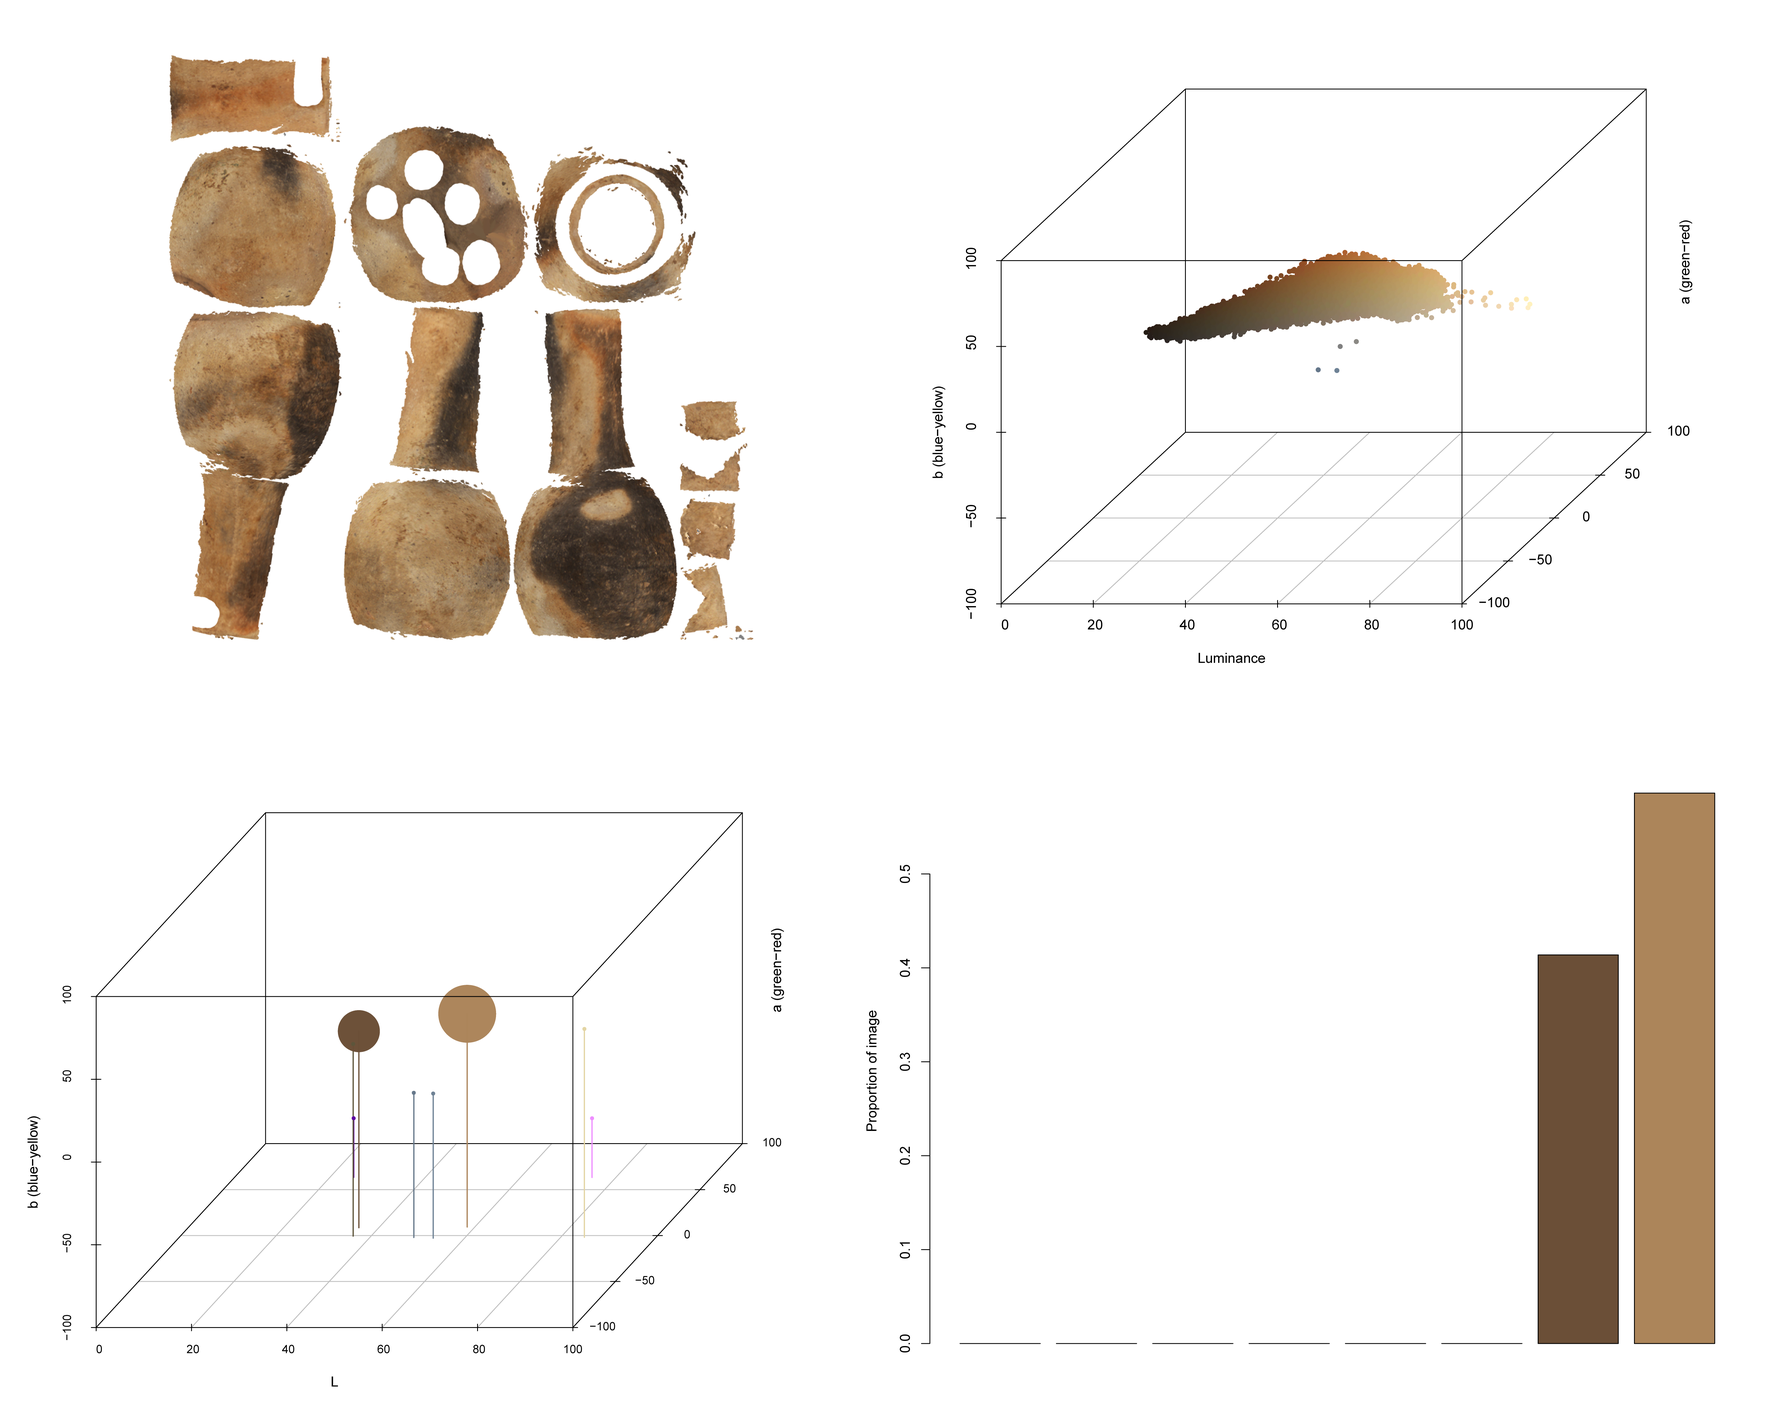
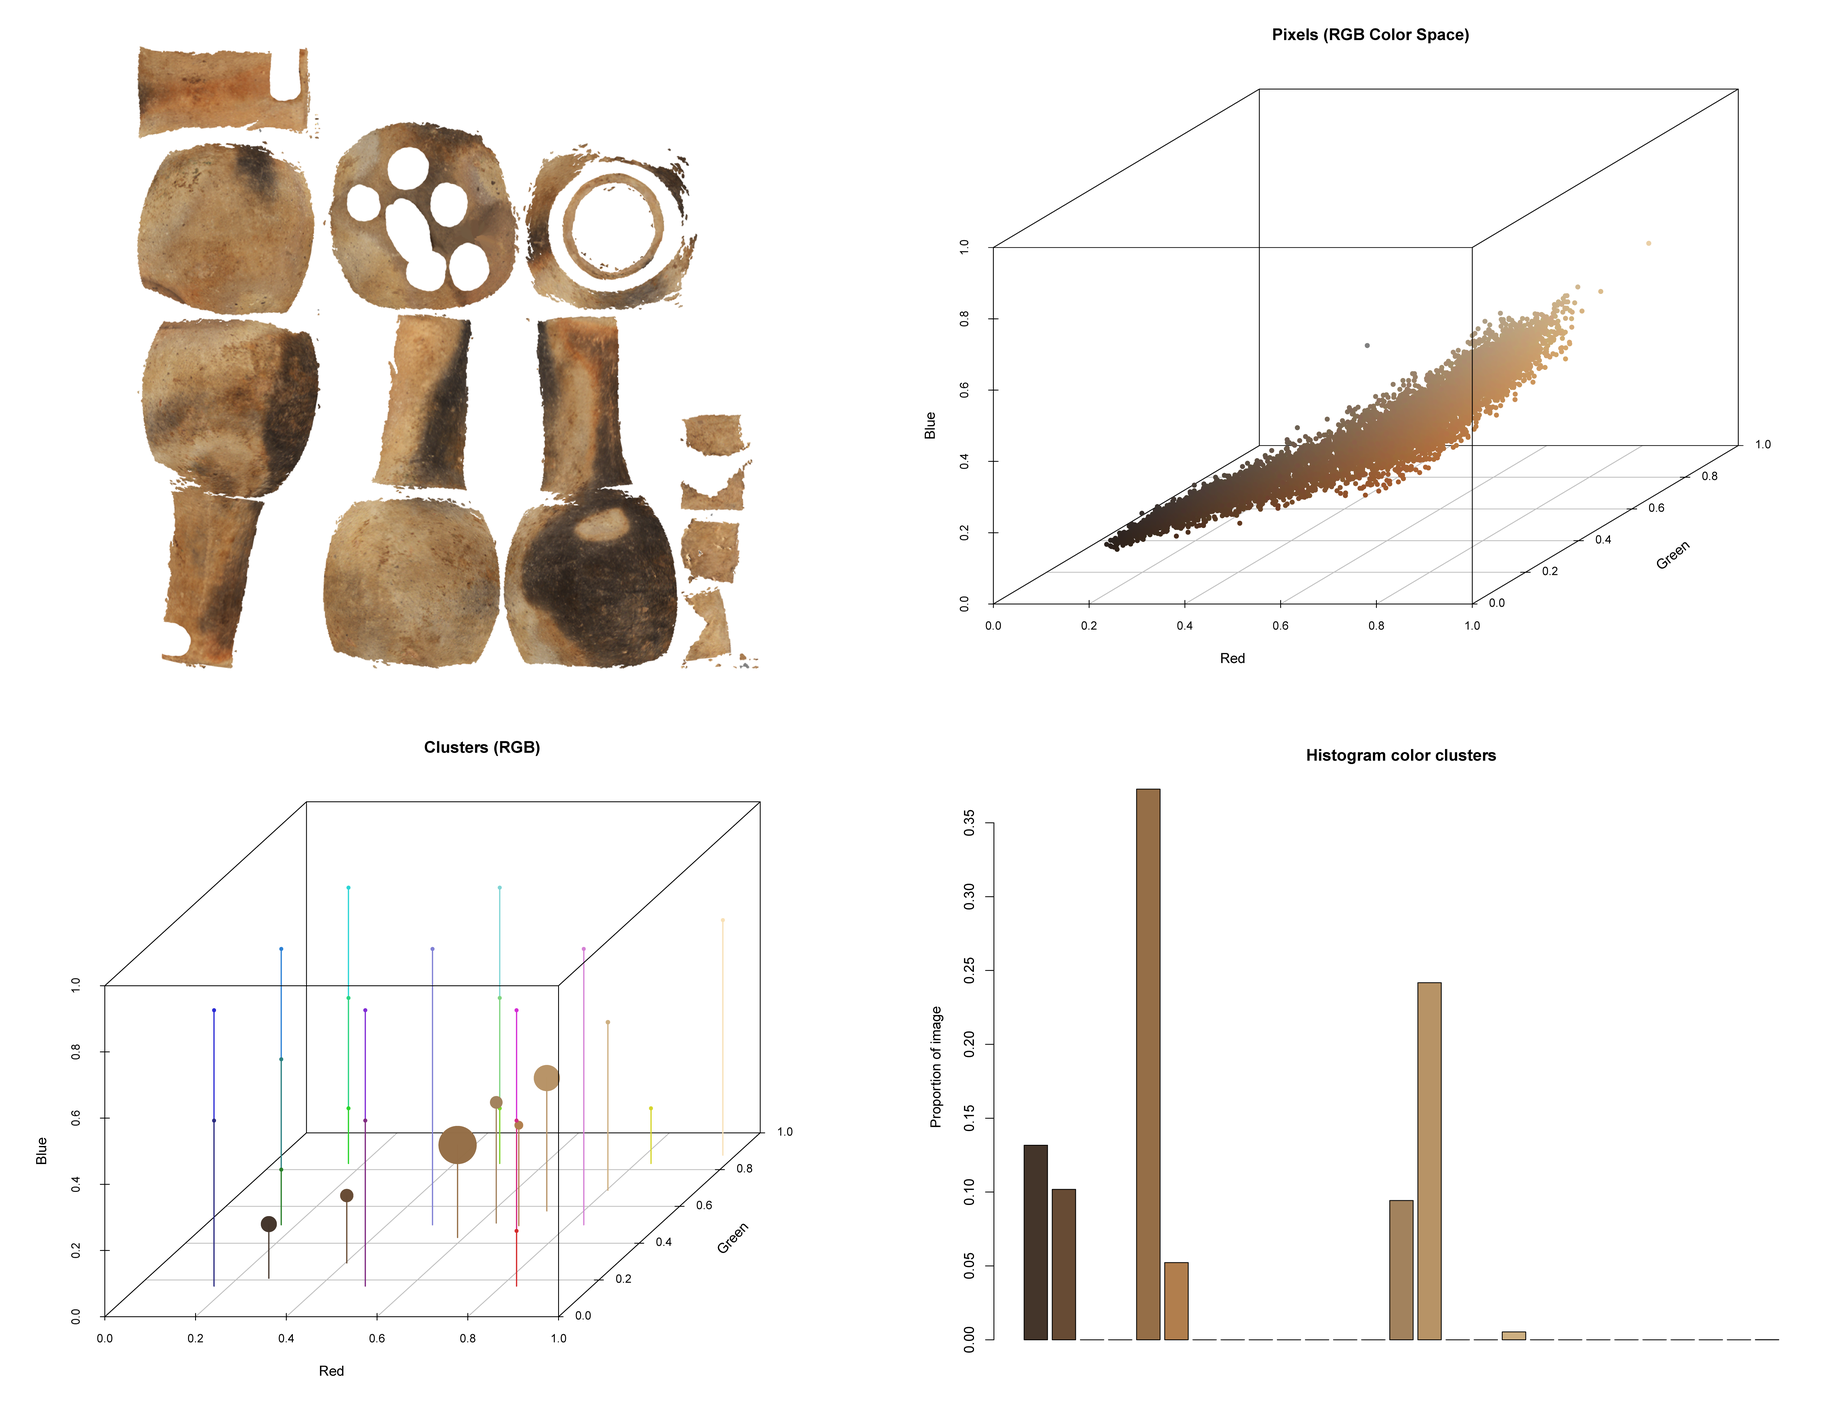
<edit index>

diff --git a/docs/index.html b/docs/index.html
@@ -7,7 +7,7 @@
 <meta name="viewport" content="width=device-width, initial-scale=1.0, user-scalable=yes">
 
 <meta name="author" content="Robert Z. Selden, Jr.">
-<meta name="dcterms.date" content="2023-02-12">
+<meta name="dcterms.date" content="2023-02-13">
 <meta name="description" content="Supplementary Materials">
 
 <title>Did intended firing method condition the morphology of Formative/Early Caddo bottles?</title>
@@ -254,7 +254,7 @@ div.csl-indent {
     <div>
     <div class="quarto-title-meta-heading">Published</div>
     <div class="quarto-title-meta-contents">
-      <p class="date">February 12, 2023</p>
+      <p class="date">February 13, 2023</p>
     </div>
   </div>
   
@@ -296,8 +296,8 @@ div.csl-indent {
 <div class="cell-output-display">
 <div class="quarto-figure quarto-figure-center">
 <figure class="figure">
-<p><img src="./img/fig2.png" class="img-fluid figure-img" width="3208"></p>
-<p></p><figcaption class="figure-caption">Color binning process for a single object; adapted from Weller and Westneat (2019:Figure 2). In a, image of a Smithport Plain bottle with a transparent background; b, 3D scatterplot of 10,000 non-background pixels in RGB color space; c, clusters from the histogram in b displayed in RGB color space; and d, histogram showing the proportion of non-background pixels assigned to each of eight bins.</figcaption><p></p>
+<p><img src="./img/fig2.png" class="img-fluid figure-img" width="3287"></p>
+<p></p><figcaption class="figure-caption">Color binning process for a single object; adapted from Weller and Westneat (2019:Figure 2). In a, image of a Smithport Plain bottle with a transparent background; b, 3D scatterplot of 10,000 non-background pixels in RGB color space; c, clusters from histogram displayed in RGB color space; and d, histogram showing the proportion of non-background pixels assigned to each of eight bins.</figcaption><p></p>
 </figure>
 </div>
 </div>
@@ -361,7 +361,7 @@ div.csl-indent {
 </section>
 <section id="colophon" class="level1 unnumbered">
 <h1 class="unnumbered">Colophon</h1>
-<p>This version of the analysis was generated on 2023-02-12 08:35:02 using the following computational environment and dependencies:</p>
+<p>This version of the analysis was generated on 2023-02-13 03:37:41 using the following computational environment and dependencies:</p>
 <div class="cell">
 <div class="sourceCode cell-code" id="cb6"><pre class="sourceCode r code-with-copy"><code class="sourceCode r"><span id="cb6-1"><a href="#cb6-1" aria-hidden="true" tabindex="-1"></a><span class="co"># what R packages and versions were used?</span></span>
 <span id="cb6-2"><a href="#cb6-2" aria-hidden="true" tabindex="-1"></a><span class="cf">if</span> (<span class="st">"devtools"</span> <span class="sc">%in%</span> <span class="fu">installed.packages</span>()) devtools<span class="sc">::</span><span class="fu">session_info</span>()</span></code><button title="Copy to Clipboard" class="code-copy-button"><i class="bi"></i></button></pre></div>
@@ -369,67 +369,67 @@ div.csl-indent {
 <pre><code>─ Session info ───────────────────────────────────────────────────────────────
  setting  value
  version  R version 4.2.2 (2022-10-31 ucrt)
- os       Windows 10 x64 (build 22621)
+ os       Windows 10 x64 (build 19045)
  system   x86_64, mingw32
  ui       RTerm
  language (EN)
  collate  English_United States.utf8
  ctype    English_United States.utf8
  tz       America/Chicago
- date     2023-02-12
+ date     2023-02-13
  pandoc   2.19.2 @ C:/Program Files/RStudio/resources/app/bin/quarto/bin/tools/ (via rmarkdown)
 
 ─ Packages ───────────────────────────────────────────────────────────────────
  package     * version date (UTC) lib source
- cachem        1.0.6   2021-08-19 [1] CRAN (R 4.2.1)
+ cachem        1.0.6   2021-08-19 [1] CRAN (R 4.2.2)
  callr         3.7.3   2022-11-02 [1] CRAN (R 4.2.2)
  cli           3.6.0   2023-01-09 [1] CRAN (R 4.2.2)
- crayon        1.5.2   2022-09-29 [1] CRAN (R 4.2.1)
- devtools      2.4.5   2022-10-11 [1] CRAN (R 4.2.1)
+ crayon        1.5.2   2022-09-29 [1] CRAN (R 4.2.2)
+ devtools      2.4.5   2022-10-11 [1] CRAN (R 4.2.2)
  digest        0.6.31  2022-12-11 [1] CRAN (R 4.2.2)
- ellipsis      0.3.2   2021-04-29 [1] CRAN (R 4.2.1)
+ ellipsis      0.3.2   2021-04-29 [1] CRAN (R 4.2.2)
  evaluate      0.20    2023-01-17 [1] CRAN (R 4.2.2)
- fastmap       1.1.0   2021-01-25 [1] CRAN (R 4.2.1)
+ fastmap       1.1.0   2021-01-25 [1] CRAN (R 4.2.2)
  fs            1.6.1   2023-02-06 [1] CRAN (R 4.2.2)
- glue          1.6.2   2022-02-24 [1] CRAN (R 4.2.1)
+ glue          1.6.2   2022-02-24 [1] CRAN (R 4.2.2)
  htmltools     0.5.4   2022-12-07 [1] CRAN (R 4.2.2)
  htmlwidgets   1.6.1   2023-01-07 [1] CRAN (R 4.2.2)
  httpuv        1.6.8   2023-01-12 [1] CRAN (R 4.2.2)
  jsonlite      1.8.4   2022-12-06 [1] CRAN (R 4.2.2)
  knitr         1.42    2023-01-25 [1] CRAN (R 4.2.2)
- later         1.3.0   2021-08-18 [1] CRAN (R 4.2.1)
- lifecycle     1.0.3   2022-10-07 [1] CRAN (R 4.2.1)
- magrittr      2.0.3   2022-03-30 [1] CRAN (R 4.2.1)
- memoise       2.0.1   2021-11-26 [1] CRAN (R 4.2.1)
+ later         1.3.0   2021-08-18 [1] CRAN (R 4.2.2)
+ lifecycle     1.0.3   2022-10-07 [1] CRAN (R 4.2.2)
+ magrittr      2.0.3   2022-03-30 [1] CRAN (R 4.2.2)
+ memoise       2.0.1   2021-11-26 [1] CRAN (R 4.2.2)
  mime          0.12    2021-09-28 [1] CRAN (R 4.2.0)
- miniUI        0.1.1.1 2018-05-18 [1] CRAN (R 4.2.1)
+ miniUI        0.1.1.1 2018-05-18 [1] CRAN (R 4.2.2)
  pkgbuild      1.4.0   2022-11-27 [1] CRAN (R 4.2.2)
  pkgload       1.3.2   2022-11-16 [1] CRAN (R 4.2.2)
  png           0.1-8   2022-11-29 [1] CRAN (R 4.2.2)
- prettyunits   1.1.1   2020-01-24 [1] CRAN (R 4.2.1)
+ prettyunits   1.1.1   2020-01-24 [1] CRAN (R 4.2.2)
  processx      3.8.0   2022-10-26 [1] CRAN (R 4.2.2)
- profvis       0.3.7   2020-11-02 [1] CRAN (R 4.2.1)
- promises      1.2.0.1 2021-02-11 [1] CRAN (R 4.2.1)
+ profvis       0.3.7   2020-11-02 [1] CRAN (R 4.2.2)
+ promises      1.2.0.1 2021-02-11 [1] CRAN (R 4.2.2)
  ps            1.7.2   2022-10-26 [1] CRAN (R 4.2.2)
  purrr         1.0.1   2023-01-10 [1] CRAN (R 4.2.2)
- R6            2.5.1   2021-08-19 [1] CRAN (R 4.2.1)
+ R6            2.5.1   2021-08-19 [1] CRAN (R 4.2.2)
  Rcpp          1.0.10  2023-01-22 [1] CRAN (R 4.2.2)
- remotes       2.4.2   2021-11-30 [1] CRAN (R 4.2.1)
- rlang         1.0.6   2022-09-24 [1] CRAN (R 4.2.1)
+ remotes       2.4.2   2021-11-30 [1] CRAN (R 4.2.2)
+ rlang         1.0.6   2022-09-24 [1] CRAN (R 4.2.2)
  rmarkdown     2.20    2023-01-19 [1] CRAN (R 4.2.2)
- rstudioapi    0.14    2022-08-22 [1] CRAN (R 4.2.1)
- sessioninfo   1.2.2   2021-12-06 [1] CRAN (R 4.2.1)
+ rstudioapi    0.14    2022-08-22 [1] CRAN (R 4.2.2)
+ sessioninfo   1.2.2   2021-12-06 [1] CRAN (R 4.2.2)
  shiny         1.7.4   2022-12-15 [1] CRAN (R 4.2.2)
  stringi       1.7.12  2023-01-11 [1] CRAN (R 4.2.2)
  stringr       1.5.0   2022-12-02 [1] CRAN (R 4.2.2)
- urlchecker    1.0.1   2021-11-30 [1] CRAN (R 4.2.1)
- usethis       2.1.6   2022-05-25 [1] CRAN (R 4.2.1)
+ urlchecker    1.0.1   2021-11-30 [1] CRAN (R 4.2.2)
+ usethis       2.1.6   2022-05-25 [1] CRAN (R 4.2.2)
  vctrs         0.5.2   2023-01-23 [1] CRAN (R 4.2.2)
  xfun          0.37    2023-01-31 [1] CRAN (R 4.2.2)
- xtable        1.8-4   2019-04-21 [1] CRAN (R 4.2.1)
+ xtable        1.8-4   2019-04-21 [1] CRAN (R 4.2.2)
  yaml          2.3.7   2023-01-23 [1] CRAN (R 4.2.2)
 
- [1] C:/Users/selde/AppData/Local/R/win-library/4.2
+ [1] C:/Users/seldenjrz/AppData/Local/R/win-library/4.2
  [2] C:/Program Files/R/R-4.2.2/library
 
 ──────────────────────────────────────────────────────────────────────────────</code></pre>
@@ -440,9 +440,9 @@ div.csl-indent {
 <div class="sourceCode cell-code" id="cb8"><pre class="sourceCode r code-with-copy"><code class="sourceCode r"><span id="cb8-1"><a href="#cb8-1" aria-hidden="true" tabindex="-1"></a><span class="co"># where can I find this commit? </span></span>
 <span id="cb8-2"><a href="#cb8-2" aria-hidden="true" tabindex="-1"></a><span class="cf">if</span> (<span class="st">"git2r"</span> <span class="sc">%in%</span> <span class="fu">installed.packages</span>() <span class="sc">&amp;</span> git2r<span class="sc">::</span><span class="fu">in_repository</span>(<span class="at">path =</span> <span class="st">"."</span>)) git2r<span class="sc">::</span><span class="fu">repository</span>(here<span class="sc">::</span><span class="fu">here</span>())  </span></code><button title="Copy to Clipboard" class="code-copy-button"><i class="bi"></i></button></pre></div>
 <div class="cell-output cell-output-stdout">
-<pre><code>Local:    main C:/Users/selde/Desktop/github/hfesp.1
+<pre><code>Local:    main D:/github/hfesp.1
 Remote:   main @ origin (https://github.com/seldenlab/hfesp.1)
-Head:     [715a00c] 2023-02-12: &lt;edit index&gt;</code></pre>
+Head:     [f38cf51] 2023-02-12: &lt;edit index&gt;</code></pre>
 </div>
 </div>
 

diff --git a/supp/_site/index.html b/supp/_site/index.html
@@ -7,7 +7,7 @@
 <meta name="viewport" content="width=device-width, initial-scale=1.0, user-scalable=yes">
 
 <meta name="author" content="Robert Z. Selden, Jr.">
-<meta name="dcterms.date" content="2023-02-12">
+<meta name="dcterms.date" content="2023-02-13">
 <meta name="description" content="Supplementary Materials">
 
 <title>Did intended firing method condition the morphology of Formative/Early Caddo bottles?</title>
@@ -254,7 +254,7 @@ div.csl-indent {
     <div>
     <div class="quarto-title-meta-heading">Published</div>
     <div class="quarto-title-meta-contents">
-      <p class="date">February 12, 2023</p>
+      <p class="date">February 13, 2023</p>
     </div>
   </div>
   
@@ -296,8 +296,8 @@ div.csl-indent {
 <div class="cell-output-display">
 <div class="quarto-figure quarto-figure-center">
 <figure class="figure">
-<p><img src="./img/fig2.png" class="img-fluid figure-img" width="3208"></p>
-<p></p><figcaption class="figure-caption">Color binning process for a single object; adapted from Weller and Westneat (2019:Figure 2). In a, image of a Smithport Plain bottle with a transparent background; b, 3D scatterplot of 10,000 non-background pixels in RGB color space; c, clusters from the histogram in b displayed in RGB color space; and d, histogram showing the proportion of non-background pixels assigned to each of eight bins.</figcaption><p></p>
+<p><img src="./img/fig2.png" class="img-fluid figure-img" width="3287"></p>
+<p></p><figcaption class="figure-caption">Color binning process for a single object; adapted from Weller and Westneat (2019:Figure 2). In a, image of a Smithport Plain bottle with a transparent background; b, 3D scatterplot of 10,000 non-background pixels in RGB color space; c, clusters from histogram displayed in RGB color space; and d, histogram showing the proportion of non-background pixels assigned to each of eight bins.</figcaption><p></p>
 </figure>
 </div>
 </div>
@@ -361,7 +361,7 @@ div.csl-indent {
 </section>
 <section id="colophon" class="level1 unnumbered">
 <h1 class="unnumbered">Colophon</h1>
-<p>This version of the analysis was generated on 2023-02-12 08:35:02 using the following computational environment and dependencies:</p>
+<p>This version of the analysis was generated on 2023-02-13 03:37:41 using the following computational environment and dependencies:</p>
 <div class="cell">
 <div class="sourceCode cell-code" id="cb6"><pre class="sourceCode r code-with-copy"><code class="sourceCode r"><span id="cb6-1"><a href="#cb6-1" aria-hidden="true" tabindex="-1"></a><span class="co"># what R packages and versions were used?</span></span>
 <span id="cb6-2"><a href="#cb6-2" aria-hidden="true" tabindex="-1"></a><span class="cf">if</span> (<span class="st">"devtools"</span> <span class="sc">%in%</span> <span class="fu">installed.packages</span>()) devtools<span class="sc">::</span><span class="fu">session_info</span>()</span></code><button title="Copy to Clipboard" class="code-copy-button"><i class="bi"></i></button></pre></div>
@@ -369,67 +369,67 @@ div.csl-indent {
 <pre><code>─ Session info ───────────────────────────────────────────────────────────────
  setting  value
  version  R version 4.2.2 (2022-10-31 ucrt)
- os       Windows 10 x64 (build 22621)
+ os       Windows 10 x64 (build 19045)
  system   x86_64, mingw32
  ui       RTerm
  language (EN)
  collate  English_United States.utf8
  ctype    English_United States.utf8
  tz       America/Chicago
- date     2023-02-12
+ date     2023-02-13
  pandoc   2.19.2 @ C:/Program Files/RStudio/resources/app/bin/quarto/bin/tools/ (via rmarkdown)
 
 ─ Packages ───────────────────────────────────────────────────────────────────
  package     * version date (UTC) lib source
- cachem        1.0.6   2021-08-19 [1] CRAN (R 4.2.1)
+ cachem        1.0.6   2021-08-19 [1] CRAN (R 4.2.2)
  callr         3.7.3   2022-11-02 [1] CRAN (R 4.2.2)
  cli           3.6.0   2023-01-09 [1] CRAN (R 4.2.2)
- crayon        1.5.2   2022-09-29 [1] CRAN (R 4.2.1)
- devtools      2.4.5   2022-10-11 [1] CRAN (R 4.2.1)
+ crayon        1.5.2   2022-09-29 [1] CRAN (R 4.2.2)
+ devtools      2.4.5   2022-10-11 [1] CRAN (R 4.2.2)
  digest        0.6.31  2022-12-11 [1] CRAN (R 4.2.2)
- ellipsis      0.3.2   2021-04-29 [1] CRAN (R 4.2.1)
+ ellipsis      0.3.2   2021-04-29 [1] CRAN (R 4.2.2)
  evaluate      0.20    2023-01-17 [1] CRAN (R 4.2.2)
- fastmap       1.1.0   2021-01-25 [1] CRAN (R 4.2.1)
+ fastmap       1.1.0   2021-01-25 [1] CRAN (R 4.2.2)
  fs            1.6.1   2023-02-06 [1] CRAN (R 4.2.2)
- glue          1.6.2   2022-02-24 [1] CRAN (R 4.2.1)
+ glue          1.6.2   2022-02-24 [1] CRAN (R 4.2.2)
  htmltools     0.5.4   2022-12-07 [1] CRAN (R 4.2.2)
  htmlwidgets   1.6.1   2023-01-07 [1] CRAN (R 4.2.2)
  httpuv        1.6.8   2023-01-12 [1] CRAN (R 4.2.2)
  jsonlite      1.8.4   2022-12-06 [1] CRAN (R 4.2.2)
  knitr         1.42    2023-01-25 [1] CRAN (R 4.2.2)
- later         1.3.0   2021-08-18 [1] CRAN (R 4.2.1)
- lifecycle     1.0.3   2022-10-07 [1] CRAN (R 4.2.1)
- magrittr      2.0.3   2022-03-30 [1] CRAN (R 4.2.1)
- memoise       2.0.1   2021-11-26 [1] CRAN (R 4.2.1)
+ later         1.3.0   2021-08-18 [1] CRAN (R 4.2.2)
+ lifecycle     1.0.3   2022-10-07 [1] CRAN (R 4.2.2)
+ magrittr      2.0.3   2022-03-30 [1] CRAN (R 4.2.2)
+ memoise       2.0.1   2021-11-26 [1] CRAN (R 4.2.2)
  mime          0.12    2021-09-28 [1] CRAN (R 4.2.0)
- miniUI        0.1.1.1 2018-05-18 [1] CRAN (R 4.2.1)
+ miniUI        0.1.1.1 2018-05-18 [1] CRAN (R 4.2.2)
  pkgbuild      1.4.0   2022-11-27 [1] CRAN (R 4.2.2)
  pkgload       1.3.2   2022-11-16 [1] CRAN (R 4.2.2)
  png           0.1-8   2022-11-29 [1] CRAN (R 4.2.2)
- prettyunits   1.1.1   2020-01-24 [1] CRAN (R 4.2.1)
+ prettyunits   1.1.1   2020-01-24 [1] CRAN (R 4.2.2)
  processx      3.8.0   2022-10-26 [1] CRAN (R 4.2.2)
- profvis       0.3.7   2020-11-02 [1] CRAN (R 4.2.1)
- promises      1.2.0.1 2021-02-11 [1] CRAN (R 4.2.1)
+ profvis       0.3.7   2020-11-02 [1] CRAN (R 4.2.2)
+ promises      1.2.0.1 2021-02-11 [1] CRAN (R 4.2.2)
  ps            1.7.2   2022-10-26 [1] CRAN (R 4.2.2)
  purrr         1.0.1   2023-01-10 [1] CRAN (R 4.2.2)
- R6            2.5.1   2021-08-19 [1] CRAN (R 4.2.1)
+ R6            2.5.1   2021-08-19 [1] CRAN (R 4.2.2)
  Rcpp          1.0.10  2023-01-22 [1] CRAN (R 4.2.2)
- remotes       2.4.2   2021-11-30 [1] CRAN (R 4.2.1)
- rlang         1.0.6   2022-09-24 [1] CRAN (R 4.2.1)
+ remotes       2.4.2   2021-11-30 [1] CRAN (R 4.2.2)
+ rlang         1.0.6   2022-09-24 [1] CRAN (R 4.2.2)
  rmarkdown     2.20    2023-01-19 [1] CRAN (R 4.2.2)
- rstudioapi    0.14    2022-08-22 [1] CRAN (R 4.2.1)
- sessioninfo   1.2.2   2021-12-06 [1] CRAN (R 4.2.1)
+ rstudioapi    0.14    2022-08-22 [1] CRAN (R 4.2.2)
+ sessioninfo   1.2.2   2021-12-06 [1] CRAN (R 4.2.2)
  shiny         1.7.4   2022-12-15 [1] CRAN (R 4.2.2)
  stringi       1.7.12  2023-01-11 [1] CRAN (R 4.2.2)
  stringr       1.5.0   2022-12-02 [1] CRAN (R 4.2.2)
- urlchecker    1.0.1   2021-11-30 [1] CRAN (R 4.2.1)
- usethis       2.1.6   2022-05-25 [1] CRAN (R 4.2.1)
+ urlchecker    1.0.1   2021-11-30 [1] CRAN (R 4.2.2)
+ usethis       2.1.6   2022-05-25 [1] CRAN (R 4.2.2)
  vctrs         0.5.2   2023-01-23 [1] CRAN (R 4.2.2)
  xfun          0.37    2023-01-31 [1] CRAN (R 4.2.2)
- xtable        1.8-4   2019-04-21 [1] CRAN (R 4.2.1)
+ xtable        1.8-4   2019-04-21 [1] CRAN (R 4.2.2)
  yaml          2.3.7   2023-01-23 [1] CRAN (R 4.2.2)
 
- [1] C:/Users/selde/AppData/Local/R/win-library/4.2
+ [1] C:/Users/seldenjrz/AppData/Local/R/win-library/4.2
  [2] C:/Program Files/R/R-4.2.2/library
 
 ──────────────────────────────────────────────────────────────────────────────</code></pre>
@@ -440,9 +440,9 @@ div.csl-indent {
 <div class="sourceCode cell-code" id="cb8"><pre class="sourceCode r code-with-copy"><code class="sourceCode r"><span id="cb8-1"><a href="#cb8-1" aria-hidden="true" tabindex="-1"></a><span class="co"># where can I find this commit? </span></span>
 <span id="cb8-2"><a href="#cb8-2" aria-hidden="true" tabindex="-1"></a><span class="cf">if</span> (<span class="st">"git2r"</span> <span class="sc">%in%</span> <span class="fu">installed.packages</span>() <span class="sc">&amp;</span> git2r<span class="sc">::</span><span class="fu">in_repository</span>(<span class="at">path =</span> <span class="st">"."</span>)) git2r<span class="sc">::</span><span class="fu">repository</span>(here<span class="sc">::</span><span class="fu">here</span>())  </span></code><button title="Copy to Clipboard" class="code-copy-button"><i class="bi"></i></button></pre></div>
 <div class="cell-output cell-output-stdout">
-<pre><code>Local:    main C:/Users/selde/Desktop/github/hfesp.1
+<pre><code>Local:    main D:/github/hfesp.1
 Remote:   main @ origin (https://github.com/seldenlab/hfesp.1)
-Head:     [715a00c] 2023-02-12: &lt;edit index&gt;</code></pre>
+Head:     [f38cf51] 2023-02-12: &lt;edit index&gt;</code></pre>
 </div>
 </div>
 
